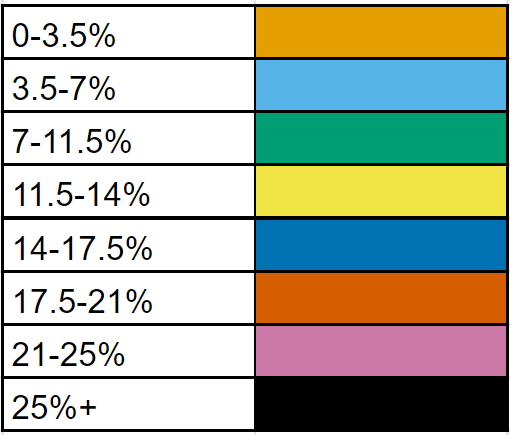
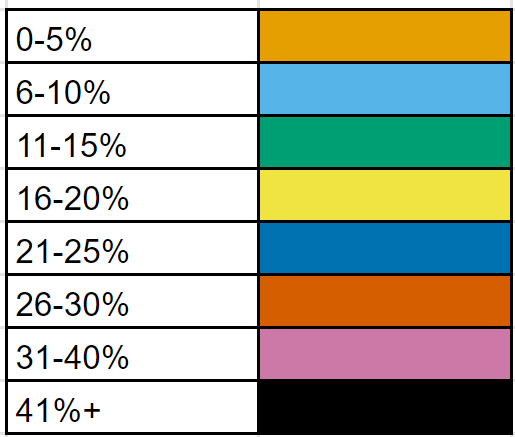
various updates attempting to use VSCode

Changed region(s): [[0.0, 0.0, 1.0, 1.0]]

diff --git a/DevelopmentHeatmaps.py b/DevelopmentHeatmaps.py
@@ -26,7 +26,10 @@ keyPositions = {
   "Santa Clara": "TopRight",
   "Kansas": "BottomLeft",
   "Rutherford": "BottomLeft",
-  "New Orleans": "BottomRight"
+  "New Orleans": "BottomRight",
+  "Nashville": "TopRight",
+  "Bronx": "TopRight",
+  "Los Angeles": "BottomLeft"
   }
 
 neighbourhoodsProperties = upland.getNeighbourhoodProperties(headers, city,None,True)
@@ -46,12 +49,12 @@ for properties in neighbourhoodsProperties:
     if prop['models']:
       if prop['models'][0]['constructionStatus'] == 'completed':
         propsDeveloped += 1
-        try:
-          devScore += prop['models'][0]['options']['score']
-        except:
-          pass
+##        try:
+##          devScore += prop['models'][0]['options']['score']
+##        except:
+##          pass
 
-  print(propsDeveloped, devScore)
+  print(propsDeveloped)
   try:
     percentDeveloped = propsDeveloped/len(properties)
   except:
@@ -60,28 +63,28 @@ for properties in neighbourhoodsProperties:
   if percentDeveloped == None:
     fillColours.append((1, 1, 1))
     cbfillColours.append((1, 1, 1))
-  elif percentDeveloped <= 0.035:
+  elif percentDeveloped <= 0.05:
     fillColours.append((0, 1, 0.364705882352941))
     cbfillColours.append((0.901960784313726, 0.623529411764706, 0))
-  elif percentDeveloped <= 0.07 and percentDeveloped > 0.035:
+  elif percentDeveloped <= 0.10 and percentDeveloped > 0.05:
     fillColours.append((0.411764705882353, 0.933333333333333, 0.137254901960784))
     cbfillColours.append((0.337254901960784, 0.705882352941177, 0.913725490196078))
-  elif percentDeveloped <= 0.105 and percentDeveloped > 0.07:
+  elif percentDeveloped <= 0.15 and percentDeveloped > 0.10:
     fillColours.append((0.56078431372549, 0.866666666666667, 0))
     cbfillColours.append((0, 0.619607843137255, 0.450980392156863))
-  elif percentDeveloped <= 0.14 and percentDeveloped > 0.105:
+  elif percentDeveloped <= 0.20 and percentDeveloped > 0.15:
     fillColours.append((0.764705882352941, 0.713725490196079, 0))
     cbfillColours.append((0.941176470588235, 0.894117647058824, 0.258823529411765))
-  elif percentDeveloped <= 0.175 and percentDeveloped > 0.14:
+  elif percentDeveloped <= 0.25 and percentDeveloped > 0.20:
     fillColours.append((0.901960784313726, 0.529411764705882, 0))
     cbfillColours.append((0, 0.447058823529412, 0.698039215686275))
-  elif percentDeveloped <= 0.21 and percentDeveloped > 0.175:
+  elif percentDeveloped <= 0.30 and percentDeveloped > 0.25:
     fillColours.append((0.984313725490196, 0.282352941176471, 0))
     cbfillColours.append((0.835294117647059, 0.368627450980392, 0))
-  elif percentDeveloped <= 0.25 and percentDeveloped > 0.21:
+  elif percentDeveloped <= 0.40 and percentDeveloped > 0.30:
     fillColours.append((1, 0, 0))
     cbfillColours.append((0.8, 0.474509803921569, 0.654901960784314))
-  elif percentDeveloped >= 0.25:
+  elif percentDeveloped > 0.40:
     fillColours.append((0, 0, 0))
     cbfillColours.append((0, 0, 0))
   else:
@@ -91,65 +94,65 @@ for properties in neighbourhoodsProperties:
   if propsDeveloped == None:
     pdfillColours.append((1, 1, 1))
     pdcbfillColours.append((1, 1, 1))
-  elif propsDeveloped <= 5:
+  elif propsDeveloped <= 150:
     pdfillColours.append((0, 1, 0.364705882352941))
     pdcbfillColours.append((0.901960784313726, 0.623529411764706, 0))
-  elif propsDeveloped <= 20 and propsDeveloped > 5:
+  elif propsDeveloped <= 300 and propsDeveloped > 150:
     pdfillColours.append((0.411764705882353, 0.933333333333333, 0.137254901960784))
     pdcbfillColours.append((0.337254901960784, 0.705882352941177, 0.913725490196078))
-  elif propsDeveloped <= 60 and propsDeveloped > 20:
+  elif propsDeveloped <= 450 and propsDeveloped > 300:
     pdfillColours.append((0.56078431372549, 0.866666666666667, 0))
     pdcbfillColours.append((0, 0.619607843137255, 0.450980392156863))
-  elif propsDeveloped <= 100 and propsDeveloped > 60:
+  elif propsDeveloped <= 600 and propsDeveloped > 450:
     pdfillColours.append((0.764705882352941, 0.713725490196079, 0))
     pdcbfillColours.append((0.941176470588235, 0.894117647058824, 0.258823529411765))
-  elif propsDeveloped <= 200 and propsDeveloped > 100:
+  elif propsDeveloped <= 750 and propsDeveloped > 600:
     pdfillColours.append((0.901960784313726, 0.529411764705882, 0))
     pdcbfillColours.append((0, 0.447058823529412, 0.698039215686275))
-  elif propsDeveloped <= 400 and propsDeveloped > 200:
+  elif propsDeveloped <= 900 and propsDeveloped > 750:
     pdfillColours.append((0.984313725490196, 0.282352941176471, 0))
     pdcbfillColours.append((0.835294117647059, 0.368627450980392, 0))
-  elif propsDeveloped <= 600 and propsDeveloped > 400:
+  elif propsDeveloped <= 1000 and propsDeveloped > 900:
     pdfillColours.append((1, 0, 0))
     pdcbfillColours.append((0.8, 0.474509803921569, 0.654901960784314))
-  elif propsDeveloped >= 600:
+  elif propsDeveloped > 1000:
     pdfillColours.append((0, 0, 0))
     pdcbfillColours.append((0, 0, 0))
   else:
     pdfillColours.append((0, 0, 0))
     pdcbfillColours.append((0, 0, 0))
-
-  if devScore == None:
-    dsfillColours.append((1, 1, 1))
-    dscbfillColours.append((1, 1, 1))
-  elif devScore <= 20:
-    dsfillColours.append((0, 1, 0.364705882352941))
-    dscbfillColours.append((0.901960784313726, 0.623529411764706, 0))
-  elif devScore <= 250 and devScore > 20:
-    dsfillColours.append((0.411764705882353, 0.933333333333333, 0.137254901960784))
-    dscbfillColours.append((0.337254901960784, 0.705882352941177, 0.913725490196078))
-  elif devScore <= 500 and devScore > 250:
-    dsfillColours.append((0.56078431372549, 0.866666666666667, 0))
-    dscbfillColours.append((0, 0.619607843137255, 0.450980392156863))
-  elif devScore <= 750 and devScore > 500:
-    dsfillColours.append((0.764705882352941, 0.713725490196079, 0))
-    dscbfillColours.append((0.941176470588235, 0.894117647058824, 0.258823529411765))
-  elif devScore <= 1000 and devScore > 750:
-    dsfillColours.append((0.901960784313726, 0.529411764705882, 0))
-    dscbfillColours.append((0, 0.447058823529412, 0.698039215686275))
-  elif devScore <= 2000 and devScore > 1000:
-    dsfillColours.append((0.984313725490196, 0.282352941176471, 0))
-    dscbfillColours.append((0.835294117647059, 0.368627450980392, 0))
-  elif devScore <= 3000 and devScore > 2000:
-    dsfillColours.append((1, 0, 0))
-    dscbfillColours.append((0.8, 0.474509803921569, 0.654901960784314))
-  elif devScore >= 3000:
-    dsfillColours.append((0, 0, 0))
-    dscbfillColours.append((0, 0, 0))
-  else:
-    dsfillColours.append((0, 0, 0))
-    dscbfillColours.append((0, 0, 0))
-
+##
+##  if devScore == None:
+##    dsfillColours.append((1, 1, 1))
+##    dscbfillColours.append((1, 1, 1))
+##  elif devScore <= 20:
+##    dsfillColours.append((0, 1, 0.364705882352941))
+##    dscbfillColours.append((0.901960784313726, 0.623529411764706, 0))
+##  elif devScore <= 250 and devScore > 20:
+##    dsfillColours.append((0.411764705882353, 0.933333333333333, 0.137254901960784))
+##    dscbfillColours.append((0.337254901960784, 0.705882352941177, 0.913725490196078))
+##  elif devScore <= 500 and devScore > 250:
+##    dsfillColours.append((0.56078431372549, 0.866666666666667, 0))
+##    dscbfillColours.append((0, 0.619607843137255, 0.450980392156863))
+##  elif devScore <= 750 and devScore > 500:
+##    dsfillColours.append((0.764705882352941, 0.713725490196079, 0))
+##    dscbfillColours.append((0.941176470588235, 0.894117647058824, 0.258823529411765))
+##  elif devScore <= 1000 and devScore > 750:
+##    dsfillColours.append((0.901960784313726, 0.529411764705882, 0))
+##    dscbfillColours.append((0, 0.447058823529412, 0.698039215686275))
+##  elif devScore <= 2000 and devScore > 1000:
+##    dsfillColours.append((0.984313725490196, 0.282352941176471, 0))
+##    dscbfillColours.append((0.835294117647059, 0.368627450980392, 0))
+##  elif devScore <= 3000 and devScore > 2000:
+##    dsfillColours.append((1, 0, 0))
+##    dscbfillColours.append((0.8, 0.474509803921569, 0.654901960784314))
+##  elif devScore >= 3000:
+##    dsfillColours.append((0, 0, 0))
+##    dscbfillColours.append((0, 0, 0))
+##  else:
+##    dsfillColours.append((0, 0, 0))
+##    dscbfillColours.append((0, 0, 0))
+##
 neighbourhoodPolys = upland.getNeighbourhoodPoly(headers, city)
 
 surface = []
@@ -158,7 +161,7 @@ mapFactor = []
 minLat = []
 maxLong = []
 
-for x in range(6):
+for x in range(4):
   data = plotting.makeCanvas(neighbourhoodPolys)
   surface.append(data[0])
   canvas.append(data[1])
@@ -172,8 +175,8 @@ for num, neighbourhoodPoly in enumerate(neighbourhoodPolys):
   plotting.plotObject(canvas[1], mapFactor[1], neighbourhoodPoly, minLat[1], maxLong[1], cbfillColours[num])
   plotting.plotObject(canvas[2], mapFactor[2], neighbourhoodPoly, minLat[2], maxLong[2], pdfillColours[num])
   plotting.plotObject(canvas[3], mapFactor[3], neighbourhoodPoly, minLat[3], maxLong[3], pdcbfillColours[num])
-  plotting.plotObject(canvas[4], mapFactor[4], neighbourhoodPoly, minLat[4], maxLong[4], dsfillColours[num])
-  plotting.plotObject(canvas[5], mapFactor[5], neighbourhoodPoly, minLat[5], maxLong[5], dscbfillColours[num])
+##  plotting.plotObject(canvas[4], mapFactor[4], neighbourhoodPoly, minLat[4], maxLong[4], dsfillColours[num])
+##  plotting.plotObject(canvas[5], mapFactor[5], neighbourhoodPoly, minLat[5], maxLong[5], dscbfillColours[num])
 
 keyFile = ["DevHeatmap-key.png",
            "CBDevHeatmap-key.png",
@@ -182,7 +185,7 @@ keyFile = ["DevHeatmap-key.png",
            "dsDevHeatmap-key.png",
            "dsCBDevHeatmap-key.png"]
 
-for x in range(6):
+for x in range(4):
   plotting.plotKey(canvas[x], surface[x], keyFile[x], keyPositions[city])
   canvas[x].set_source_rgb(0, 0, 0)
   canvas[x].set_font_size(100)
@@ -198,7 +201,8 @@ canvas[2].show_text('No. of Properties Developed - ' + city)
 surface[2].write_to_png(homedir + '/maps/DevelopmentHeatmaps/Development no of props ' + city + ' ' + today.strftime('%d-%b') + '.png')
 canvas[3].show_text('No. of Properties Developed - ' + city)
 surface[3].write_to_png(homedir + '/maps/DevelopmentHeatmaps/Development no of props ' + city + ' Wong Colour Scheme ' + today.strftime('%d-%b') + '.png')
-canvas[4].show_text('Property Development Score - ' + city)
-surface[4].write_to_png(homedir + '/maps/DevelopmentHeatmaps/Development property development score ' + city + ' ' + today.strftime('%d-%b') + '.png')
-canvas[5].show_text('Property Development Score - ' + city)
-surface[5].write_to_png(homedir + '/maps/DevelopmentHeatmaps/Development property development score ' + city + ' Wong Colour Scheme ' + today.strftime('%d-%b') + '.png')
+##canvas[4].show_text('Property Development Score - ' + city)
+##surface[4].write_to_png(homedir + '/maps/DevelopmentHeatmaps/Development property development score ' + city + ' ' + today.strftime('%d-%b') + '.png')
+##canvas[5].show_text('Property Development Score - ' + city)
+##surface[5].write_to_png(homedir + '/maps/DevelopmentHeatmaps/Development property development score ' + city + ' Wong Colour Scheme ' + today.strftime('%d-%b') + '.png')
+##

diff --git a/mappingDevelopment.py b/mappingDevelopment.py
@@ -14,15 +14,21 @@ def main():
   neighbourhood = sys.argv[1]
   city = sys.argv[2]
   keyPos = sys.argv[3]
+  pngOrPdf = sys.argv[4]
+  
 ##  neighbourhood = "The Oaks"
 ##  city = "Bakersfield"
-  filename = homedir + '/maps/NeighbourhoodDevelopment/' + neighbourhood + " - " + city + " - Building Progress"
+  today = date.today()
+  filename = homedir + '/maps/NeighbourhoodDevelopment/' + neighbourhood + " - " + city + " - Building Progress " + today.strftime('%d-%b')
   models = True
   
   props = upland.getNeighbourhoodProperties(headers, city, neighbourhood, models)
   props = props[0]
   neighbourhoodPoly = upland.getNeighbourhoodPoly(headers, city, neighbourhood)
-  canvas2 = plotting.makeCanvas(neighbourhoodPoly)
+  if pngOrPdf == "pdf":
+    canvas2 = plotting.makeCanvas(neighbourhoodPoly, pdf = True, path = filename)
+  else:
+    canvas2 = plotting.makeCanvas(neighbourhoodPoly)
   surface = canvas2[0]
   canvas = canvas2[1]
   mapFactor = canvas2[2]
@@ -67,9 +73,8 @@ def main():
   canvas.show_text(f'{neighbourhood}, {city}: {(builtProps/len(props))*100:.0f}% Developed')
   canvas.move_to(75, 165)
   canvas.show_text(f'{builtProps} Completed, {inProgressProps} In Progress')
-  today = date.today()
   plotting.plotKey(canvas, surface, 'Dev-key.png', keyPos)
-  surface.write_to_png(filename + ' ' + today.strftime('%d-%b') + '.png')
-
+  if not pngOrPdf == "pdf":
+    surface.write_to_png(filename + '.png')
 if __name__ == '__main__':
     main()

diff --git a/BasePriceData.py b/BasePriceData.py
@@ -21,11 +21,12 @@ def main():
     props = upland.getNeighbourhoodProperties(headers, searchCity, details['neighbourhood name'])
     if not len(props) == 0:
       props = props[0]
-      for prop in props:
-        if not prop['status'] == 'Locked':
-          break
-      propDetails = upland.getPropertyDetails(headers, prop['prop_id'])
-      tableData[neighbourhoodID]['data']['base price'] = calculateBasePrice(headers, propDetails)
+      if not len(props) == 0:
+        for prop in props:
+          if not prop['status'] == 'Locked':
+            break
+        propDetails = upland.getPropertyDetails(headers, prop['prop_id'])
+        tableData[neighbourhoodID]['data']['base price'] = calculateBasePrice(headers, propDetails)
 
   today = date.today()
   workbook = xlsxwriter.Workbook(homedir + '/maps/HeatmapData/' + searchCity + ' Base Prices.xlsx')
@@ -63,7 +64,8 @@ def calculateBasePrice(headers, prop):
   collectionLevels = []
   collections = upland.matchCollections(headers, prop['prop_id'])
   for collection in collections:
-    collectionLevels.append(collection['category'])
+    if not collection == "King of the Street" and collection == "Newbie" and collection == "City Pro":
+      collectionLevels.append(collection['category'])
   if collectionLevels:
     if max(collectionLevels) == 5:
       basePrice = price/21

diff --git a/MarkedProperties.py b/MarkedProperties.py
@@ -1,0 +1,41 @@
+import Upland.upland as upland
+import Upland.plotting as plotting
+import os
+import sys
+from datetime import date
+import xlsxwriter
+
+today = date.today()
+
+homedir = os.path.expanduser('~')
+
+headers = {'user-agent': 'PropertyMarkers/1.0'}
+
+city = sys.argv[1]
+
+neighbourhoods = upland.getNeighbourhood(headers, city)
+neighbourhoodsProperties = upland.getNeighbourhoodProperties(headers, city)
+
+workbook = xlsxwriter.Workbook(homedir + '/maps/MarkerData/' + city + ' ' + today.strftime('%d-%b') + '.xlsx')
+worksheet = workbook.add_worksheet()
+percentage_format = workbook.add_format()
+percentage_format.set_num_format('0.00%')
+
+worksheet.write(0, 0, 'Full Address')
+worksheet.write(0, 1, 'Marked Property Name')
+
+row = 1
+
+for properties in neighbourhoodsProperties:
+  for prop in properties:
+    if prop['markers']:
+      propDetails = upland.getPropertyDetails(headers, prop['prop_id'])
+      worksheet.write(row, 0, propDetails['full_address'])
+      try:
+        worksheet.write(row, 1, prop['markers'][0]['title'])
+        print(prop['markers'][0]['title'])
+      except:
+        print(prop)
+      row += 1
+  
+workbook.close()

diff --git a/PreReleaseData.py b/PreReleaseData.py
@@ -28,7 +28,7 @@ for neighbourhoodID, details in tableData.items():
     except:
       print(prop)
 today = date.today()
-workbook = xlsxwriter.Workbook(homedir + '/maps/HeatmapData/' + searchCity + ' Pre-Release Data' + today.strftime('%d-%b') + '.xlsx')
+workbook = xlsxwriter.Workbook(homedir + '/maps/HeatmapData/' + searchCity + ' Pre-Release Data ' + today.strftime('%d-%b') + '.xlsx')
 worksheet = workbook.add_worksheet()
 row = 0
 col = 0

diff --git a/mappingNeighbourhood.py b/mappingNeighbourhood.py
@@ -37,7 +37,7 @@ def main():
 
   homedir = os.path.expanduser('~')
   filepath = homedir + '/maps/NeighbourhoodMaps/'
-  configFilename = 'Strupwood - Sheet1'
+  configFilename = 'Bronxdale - Morecheese - Sheet1'
   configFile = filepath + '/ConfigFiles/' + configFilename + '.csv'
   filename = configFilename[:-9]
   with open(configFile, newline='') as csvfile:
